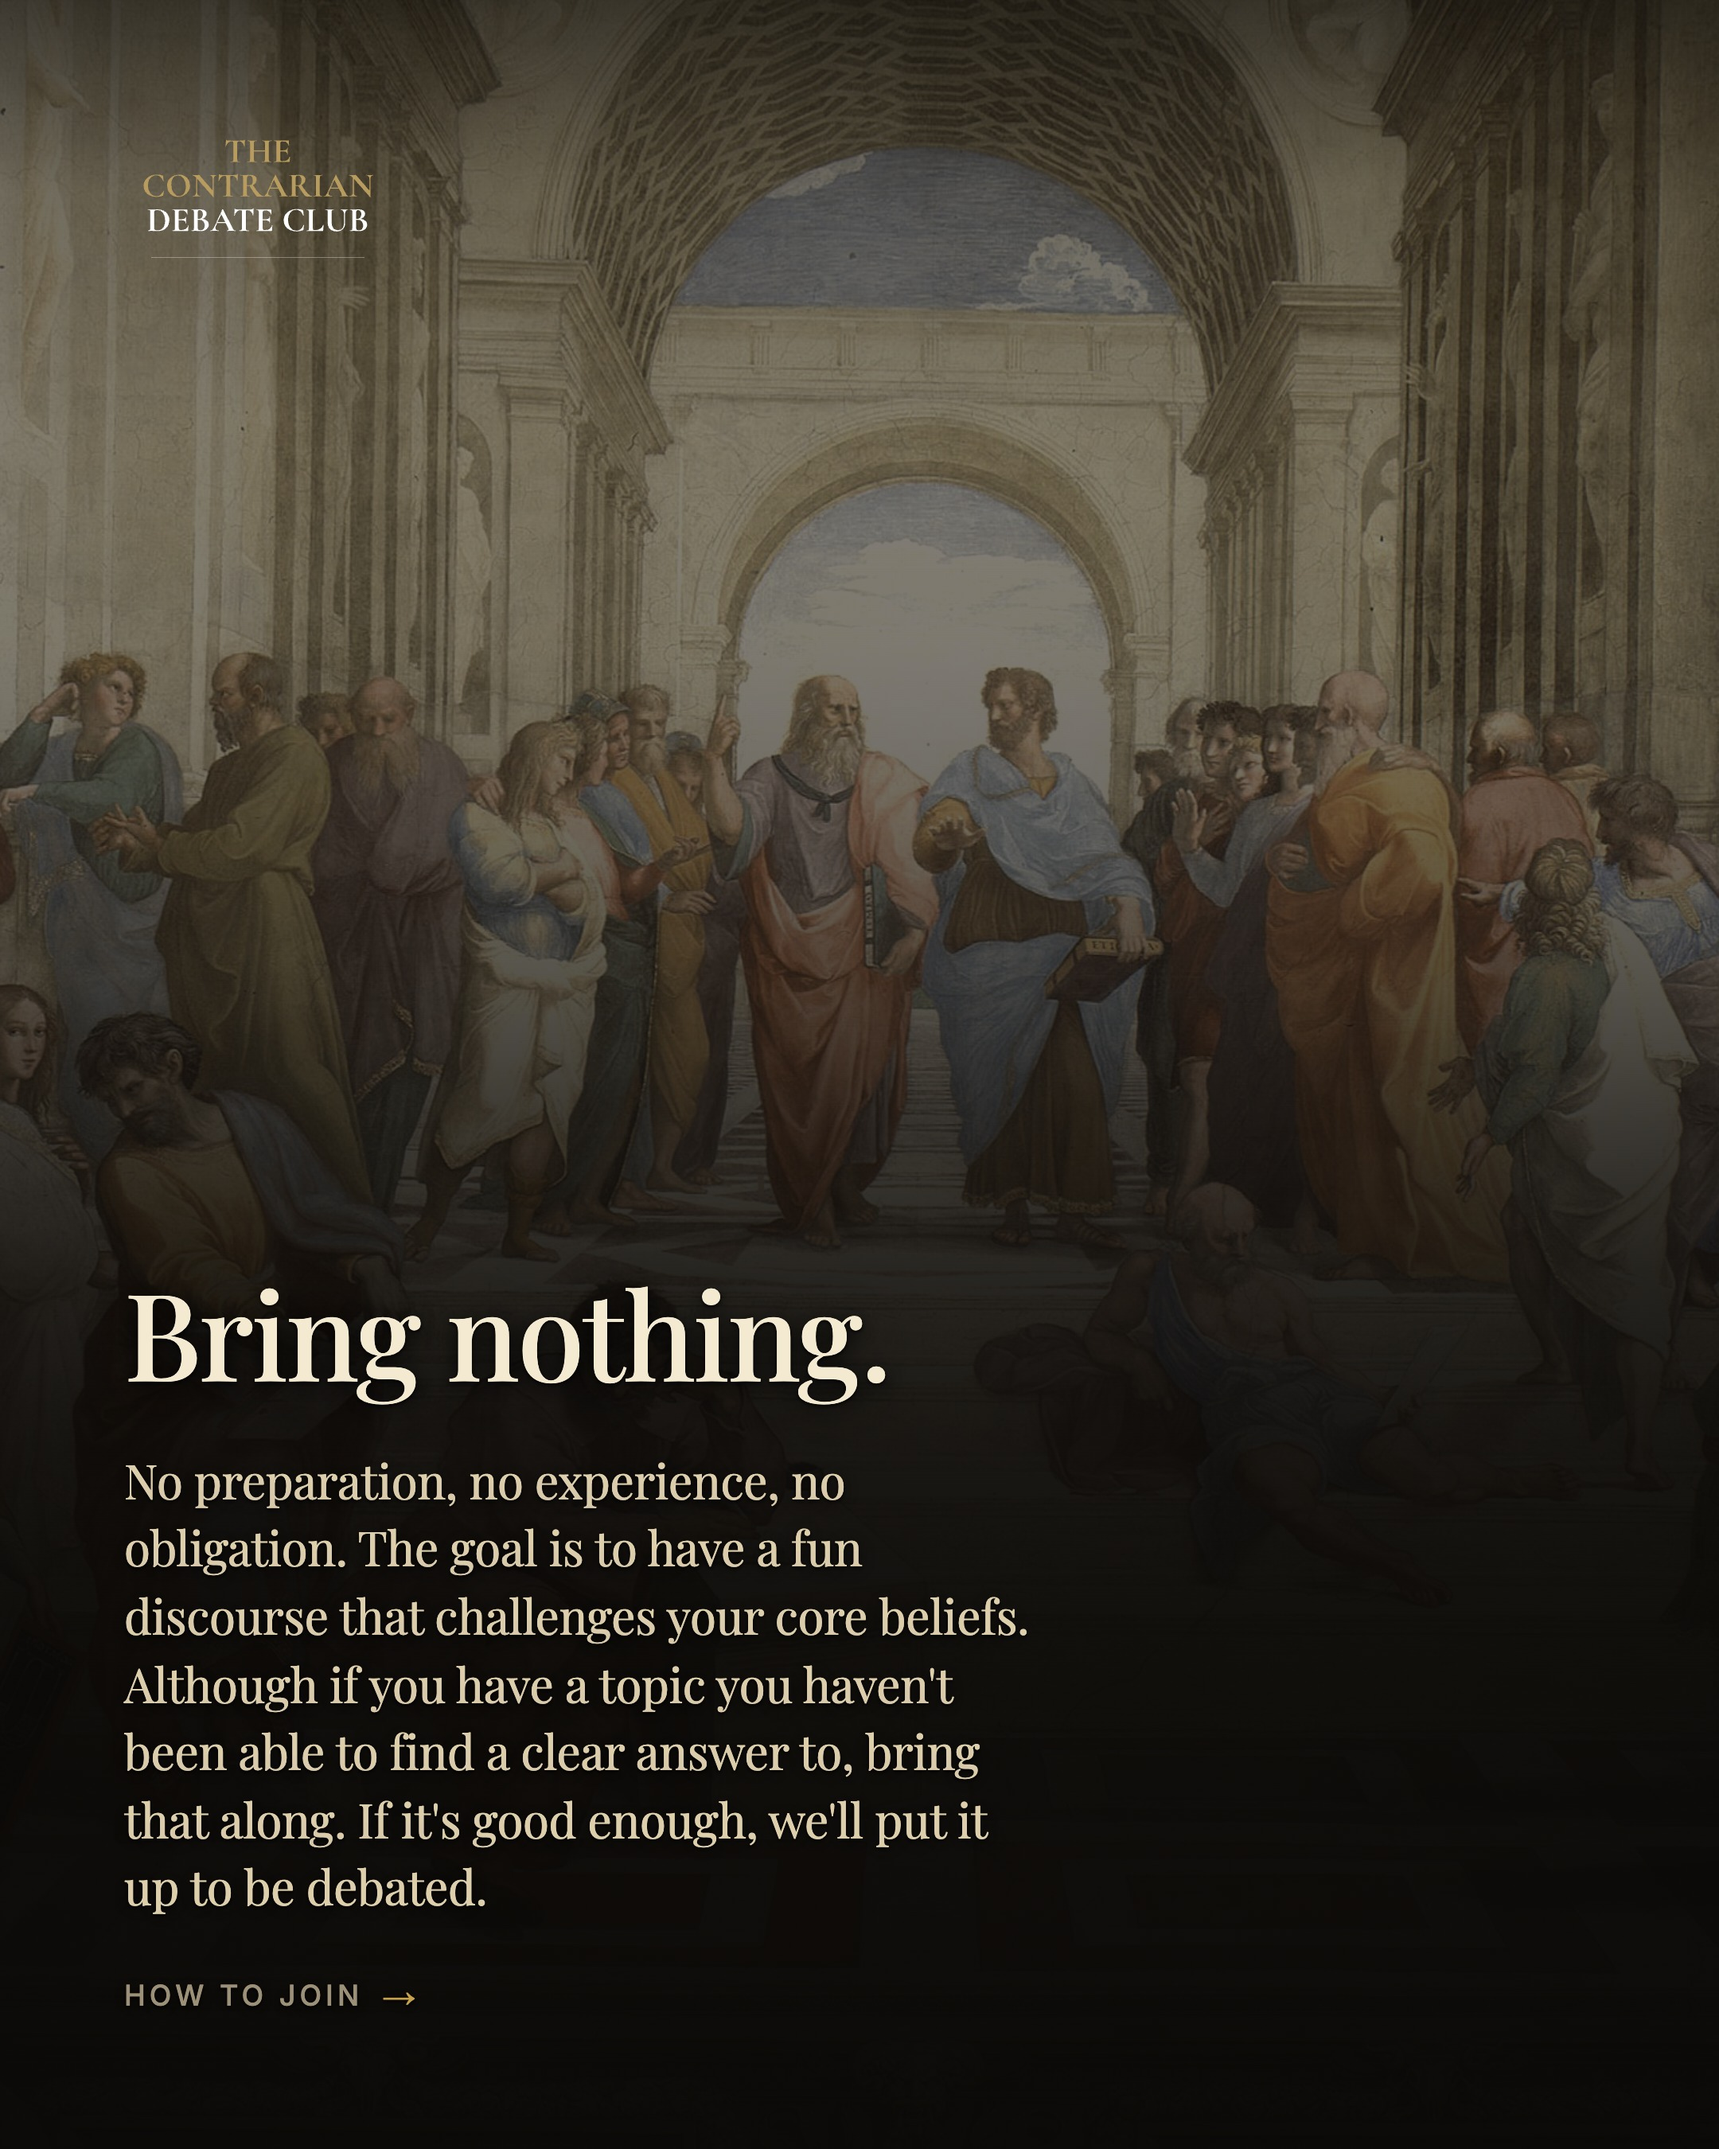
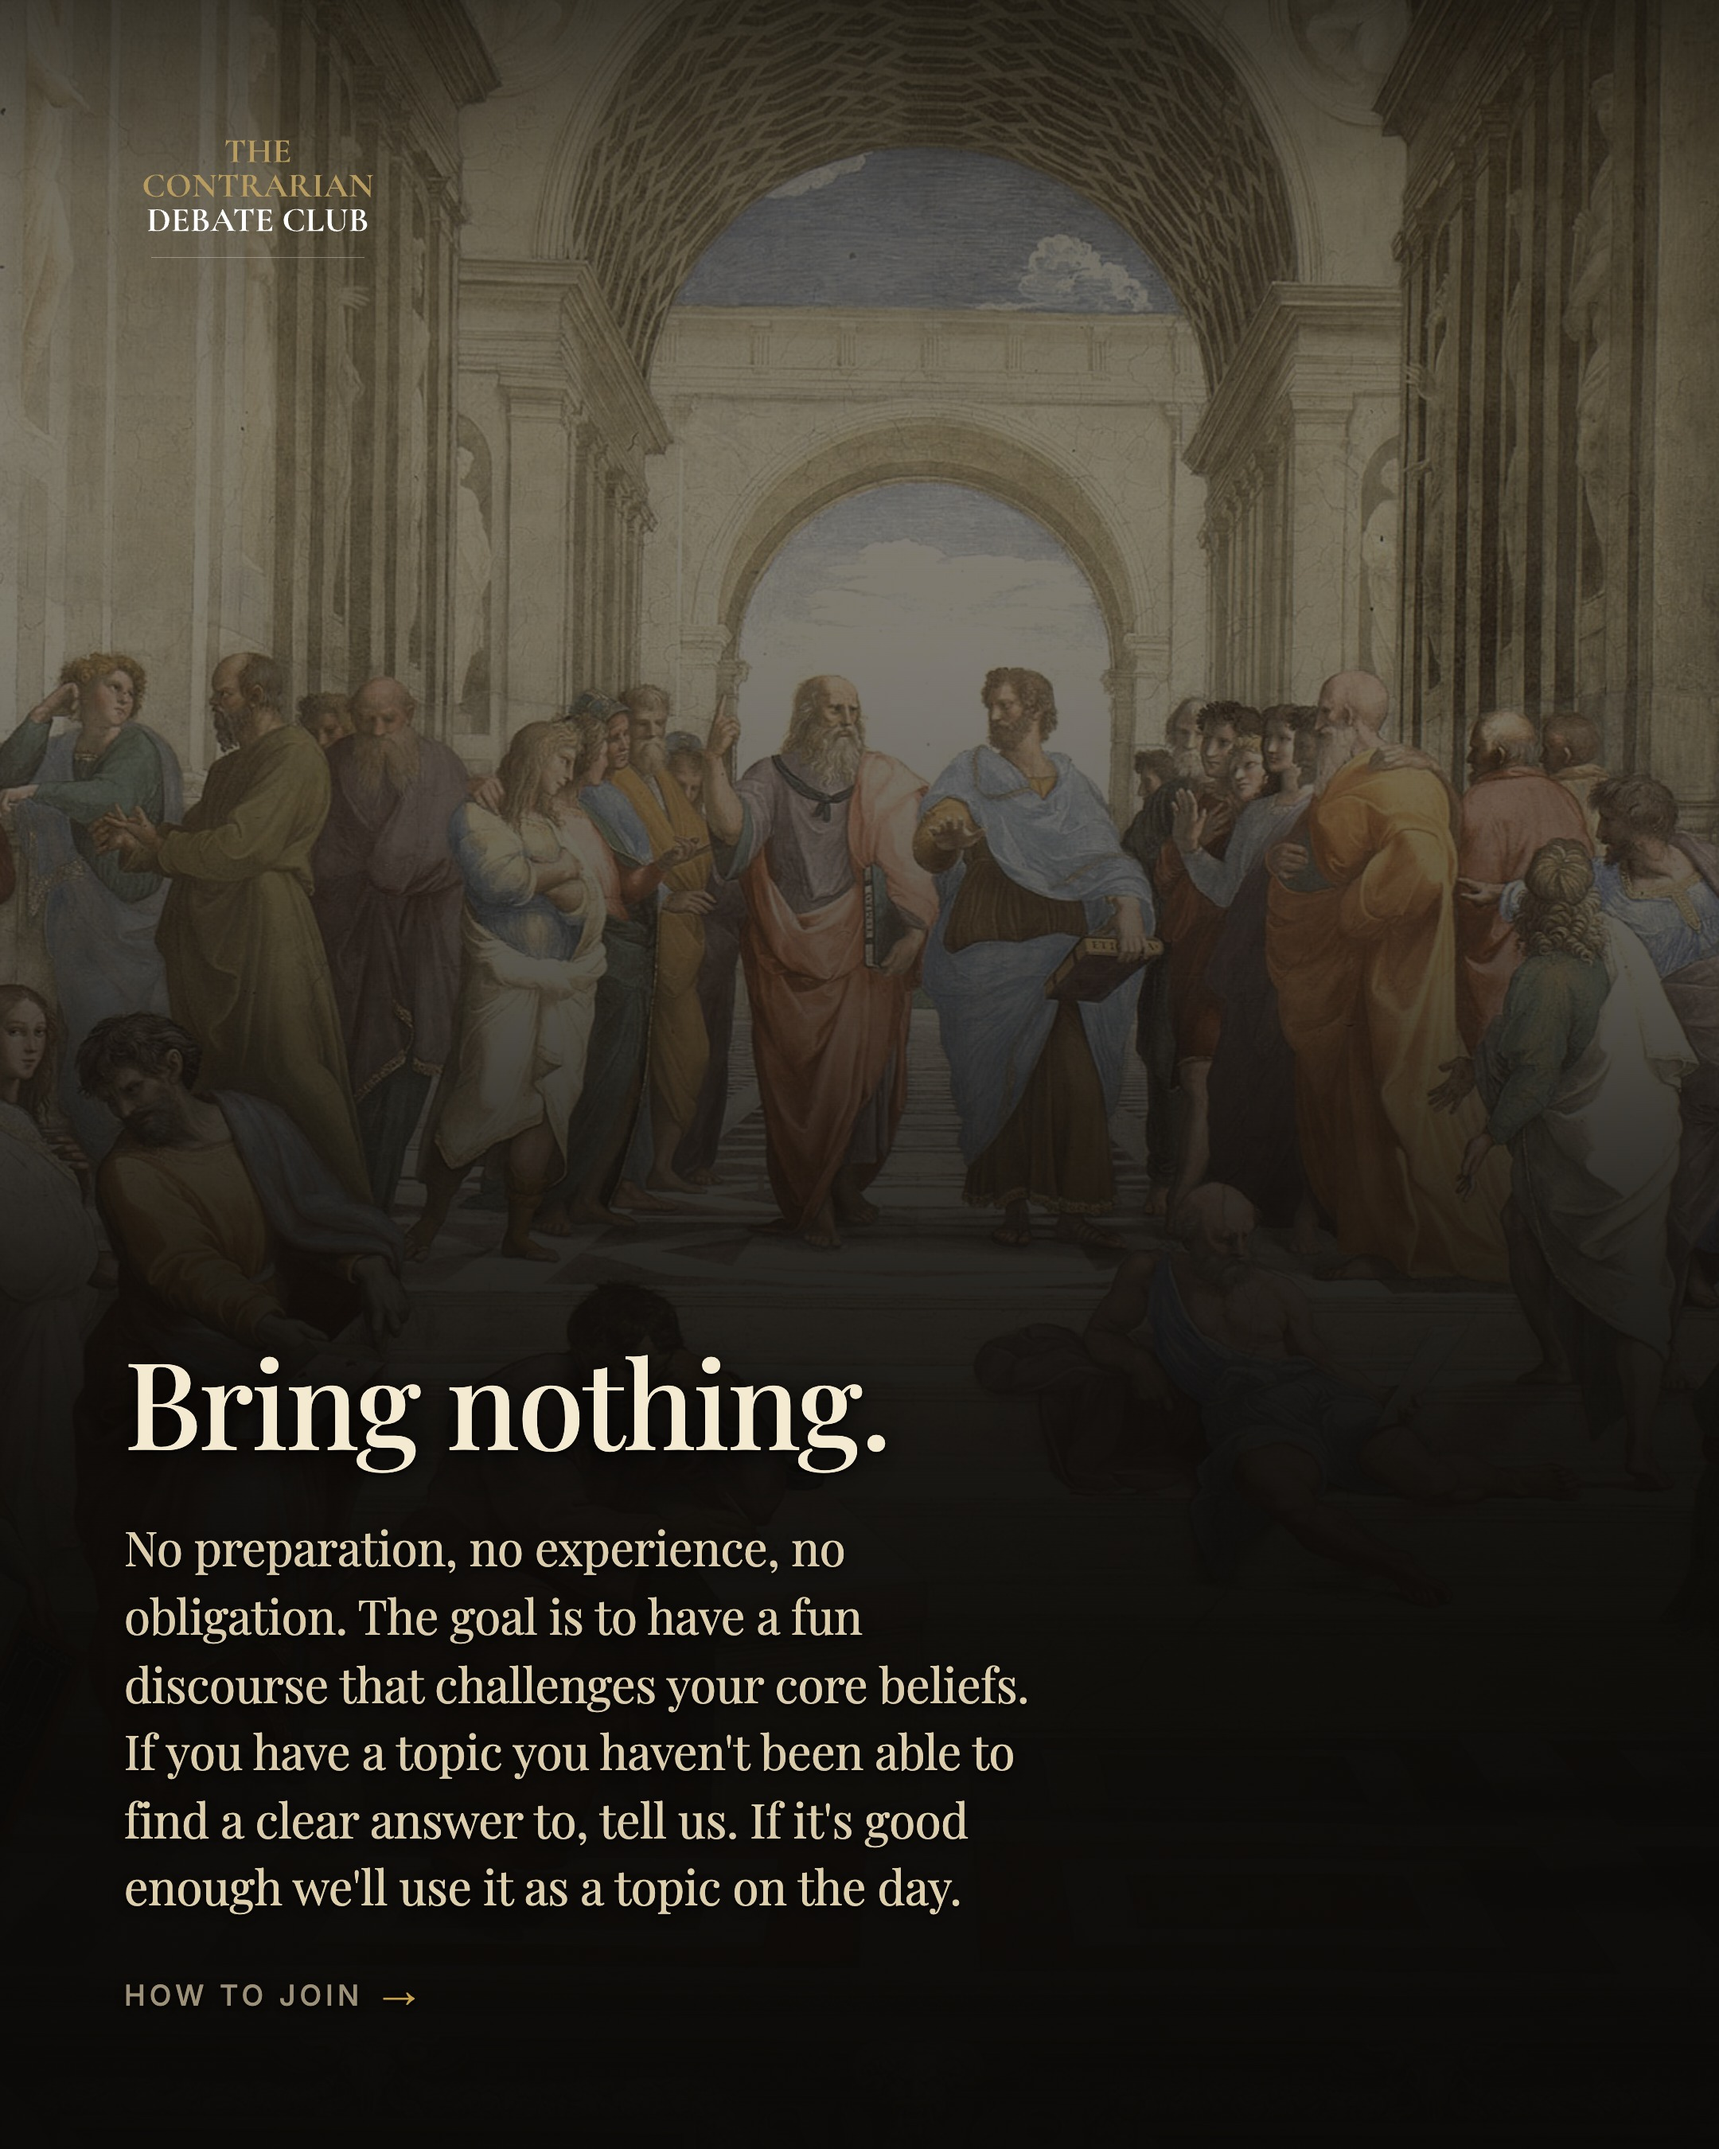
copy(posters): bring-nothing slide asks people to tell us the topic
'Tell us' rather than 'bring that along', and the topic gets used on the day
rather than put up to be debated. Drops the 'Although' hinge so the sentence
starts clean.

Changed region(s): [[0.062, 0.5911, 0.5894, 0.9022]]

diff --git a/posters/works/2026-08-09-open-floor-debate/spec.tsx b/posters/works/2026-08-09-open-floor-debate/spec.tsx
@@ -134,9 +134,9 @@ const work: WorkSpec = {
           rest={
             <>
               No preparation, no experience, no obligation. The goal is to have a fun discourse
-              that challenges your core beliefs. Although if you have a topic you haven't been
-              able to find a clear answer to, bring that along. If it's good enough, we'll put it
-              up to be debated.
+              that challenges your core beliefs. If you have a topic you haven't been able to
+              find a clear answer to, tell us. If it's good enough we'll use it as a topic on the
+              day.
             </>
           }
           next="How to join"
